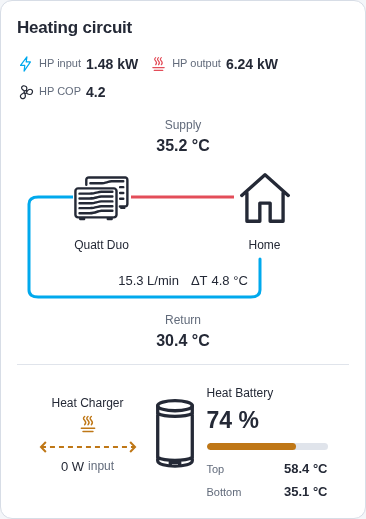
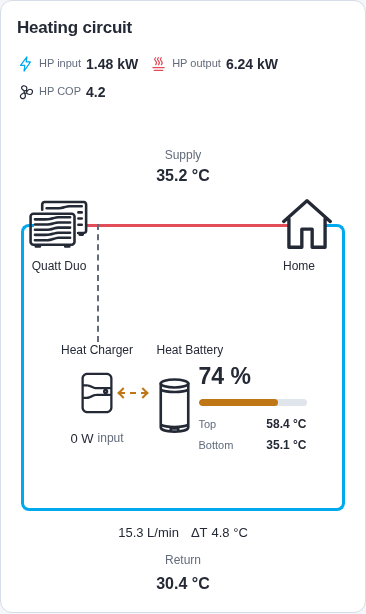
Integrate heat storage inside the heating circuit

diff --git a/src/cards/heating-circuit-card.ts b/src/cards/heating-circuit-card.ts
@@ -1,4 +1,4 @@
-import { css, html, nothing, svg } from 'lit';
+import { css, html, nothing } from 'lit';
 import { BaseCard } from '../base-card';
 import { circuitReadings } from '../data/circuit';
 import type { Reading } from '../types';
@@ -13,31 +13,45 @@ export class QuattHeatingCircuitCard extends BaseCard {
     .summary-item{display:flex;align-items:center;gap:7px;min-width:0}.summary-item .label{font-size:13px}
     .summary-item .value{font-size:17px}.summary-item>.icon{width:20px;height:22px}
     .summary-item.electric>.icon{color:var(--qc-return)}.summary-item.heat>.icon{color:var(--qc-supply)}
-    .diagram{display:flex;align-items:flex-start;gap:12px}.loop{flex:1;min-width:0;position:relative;padding:0 12px;height:235px}
-    .equipment{display:grid;grid-template-columns:repeat(var(--units),minmax(0,1fr));gap:26px;position:relative;padding-top:50px}
-    .unit{text-align:center;min-width:0;position:relative}.unit .icon{width:82px;height:62px;max-width:100%;stroke-width:1.05;background:var(--ha-card-background,var(--card-background-color,#fff))}
-    .unit.home .icon{width:62px;stroke-width:1.3}.unit-name{display:-webkit-box;-webkit-line-clamp:2;-webkit-box-orient:vertical;overflow:hidden;font-size:12px;line-height:1.35;overflow-wrap:anywhere;margin-top:3px}
-    .unit.offline .icon{color:var(--qc-secondary)}.unavailable{font-size:11px;color:var(--qc-secondary);display:block}
-    .pipes{position:absolute;inset:80px 12px auto;width:calc(100% - 24px);height:100px;overflow:visible;pointer-events:none}
-    .pipes path{fill:none;stroke-width:3;vector-effect:non-scaling-stroke;stroke-linecap:round;stroke-linejoin:round}
-    .supply-pipe{stroke:var(--qc-supply)}.return-pipe{stroke:var(--qc-return)}
-    .supply-reading{position:absolute;left:calc(100% - 100% / var(--units));transform:translateX(-50%);top:0;text-align:center;display:grid;justify-items:center}
-    .inline-readings{position:absolute;top:155px;left:0;width:100%;display:flex;justify-content:center;align-items:center;gap:12px;font-size:13px;white-space:nowrap}
+    .diagram{width:100%}.loop{position:relative;display:grid;grid-template-columns:90px minmax(0,1fr) 90px;grid-template-rows:50px auto 48px 51px;padding:0 12px;isolation:isolate}
+    .equipment{display:contents}.unit{grid-row:2;text-align:center;min-width:0;position:relative;padding-top:26px;align-self:stretch}.pump{grid-column:1}.home{grid-column:3}
+    .unit .icon{display:block;margin:auto;width:70px;height:62px;max-width:100%;stroke-width:1.05}
+    .unit.home .icon{width:62px;stroke-width:1.3}.unit-name{position:relative;display:table;margin:3px auto 0;background:var(--ha-card-background,var(--card-background-color,#fff));padding:0 4px;font-size:12px;line-height:1.35;overflow-wrap:anywhere;max-width:100%}
+    .home .unit-name{transform:translateX(-8px);background:transparent}
+    .unit.offline .icon{color:var(--qc-secondary)}.unavailable{position:relative;font-size:11px;color:var(--qc-secondary);display:block;background:var(--ha-card-background,var(--card-background-color,#fff))}
+    .pipes{position:absolute;pointer-events:none;z-index:-1}.supply-pipe{top:50px;left:57px;right:57px;height:28px;border:3px solid var(--qc-supply);border-bottom:0;border-radius:8px 8px 0 0}
+    .return-pipe{top:135px;bottom:85px;left:12px;right:12px;border:3px solid var(--qc-return);border-top:0;border-radius:0 0 8px 8px}
+    .home::after{content:'';position:absolute;top:57px;left:calc(50% + 18px);right:0;height:30px;border-right:3px solid var(--qc-return);border-top:3px solid var(--qc-return);border-radius:0 8px 0 0;z-index:-1}
+    .loop:not(.ordered) .home::after{display:none}.pump::before{content:'';position:absolute;top:57px;left:0;width:15px;height:30px;border-left:3px solid var(--qc-return);border-top:3px solid var(--qc-return);border-radius:8px 0 0 0;z-index:-1}.loop:not(.ordered) .pump::before{display:none}
+    .supply-reading{grid-row:1;grid-column:1/-1;height:50px;text-align:center;display:grid;justify-items:center;align-content:start}
+    .inline-readings{grid-row:3;grid-column:1/-1;display:flex;justify-content:center;align-items:center;gap:12px;font-size:13px;padding-top:24px;height:48px;white-space:nowrap}
     .inline-readings .value{font-size:13px;font-weight:500}.delta{display:flex;gap:4px}
-    .return-reading{position:absolute;top:195px;left:0;width:100%;display:grid;justify-items:center;text-align:center;min-height:39px}.return-reading .label,.supply-reading .label{font-size:12px}
-    .storage{display:flex;align-items:flex-start;gap:16px;flex:0 0 38%;padding-top:45px;min-width:270px}
-    .charger{display:flex;flex-direction:column;align-items:center;position:relative;flex:1 0 98px;min-width:0;text-align:center;padding-top:4px}
-    .charger-label{font-size:12px;white-space:nowrap}.thermal{width:100%;height:42px;position:relative;color:var(--qc-heat);display:grid;place-items:start center}
-    .thermal>.icon{width:20px;height:24px}.thermal-line{position:absolute;width:100%;height:14px;bottom:0;overflow:visible}
-    .thermal-line path{fill:none;stroke:currentColor;stroke-width:2;vector-effect:non-scaling-stroke}
+    .return-reading{grid-row:4;grid-column:1/-1;display:grid;justify-items:center;text-align:center;min-height:51px;padding-top:7px}.return-reading .label,.supply-reading .label{font-size:12px}
+    .storage{--thermal-gap:38px;grid-row:2;grid-column:2;display:flex;justify-content:center;align-items:flex-start;gap:38px;padding:26px 10px 24px;min-width:0;min-height:185px}
+    .charger{display:flex;flex-direction:column;align-items:center;position:relative;flex:0 0 85px;min-width:0;text-align:center}
+    .relationship{position:absolute;bottom:100%;height:26px;left:50%;border-left:2px dashed var(--qc-secondary)}
+    .charger-label{font-size:12px;white-space:nowrap}.thermal{width:100%;height:67px;position:relative;display:grid;place-items:center}
+    .thermal>.icon{width:46px;height:58px}.thermal-line{position:absolute;width:calc(50% + var(--thermal-gap) - 30px);height:16px;left:calc(50% + 21px);top:26px;color:var(--qc-heat)}
+    .thermal-shaft{position:absolute;top:7px;left:1px;right:1px;border-top:2px dashed currentColor}
+    .thermal-line::before,.thermal-line::after{content:'';position:absolute;top:4px;width:6px;height:6px;border-top:2px solid currentColor;border-right:2px solid currentColor}
+    .thermal-line::before{left:1px;transform:rotate(-135deg)}.thermal-line::after{right:1px;transform:rotate(45deg)}
     .charger-input{display:flex;justify-content:center;flex-wrap:wrap;gap:0 4px;margin-top:4px;font-size:12px}.charger-input .value{font-size:13px;font-weight:500}
-    .battery{display:flex;gap:10px;align-items:flex-start;min-width:0;flex:1 0 150px}.battery>.icon{width:48px;height:105px;stroke-width:1.05;flex:none}
-    .battery-data{min-width:0;flex:1}.battery-title{font-size:12px;white-space:nowrap;margin-bottom:4px}
+    .battery{display:flex;gap:10px;align-items:flex-start;min-width:0;flex:0 1 190px;padding-top:20px;position:relative}.battery>.icon{width:42px;height:88px;stroke-width:1.05;flex:none}
+    .battery-data{min-width:0;flex:1}.battery-title{position:absolute;top:0;left:0;font-size:12px;white-space:nowrap}
     .charge .value{font-size:23px;line-height:1.25}.bar{height:7px;background:var(--qc-line);border-radius:8px;margin:8px 0 10px;overflow:hidden}.bar>span{display:block;height:100%;background:var(--qc-heat);border-radius:inherit}
     .tank-reading{display:flex;align-items:baseline;justify-content:space-between;gap:8px;margin-top:4px}.tank-reading .value{font-size:13px;white-space:nowrap}.tank-reading .label{font-size:11px}
+    .loop:not(.has-storage) .unit{min-height:155px}
     .extra{display:flex;flex-wrap:wrap;gap:12px 24px;margin-top:14px}.extra:empty{display:none}
-    @container(max-width:720px){.diagram{flex-direction:column;gap:0}.loop{flex:none;width:100%}.storage{flex:initial;width:100%;min-width:0;justify-content:center;padding-top:20px;margin-top:12px;border-top:1px solid var(--qc-line);gap:20px}.charger{flex:0 0 110px;padding-top:10px}.battery{flex:0 1 175px}.battery>.icon{height:98px;width:44px}.summary{gap:8px 14px}.summary-item{gap:5px}.summary-item .label{font-size:12px}.summary-item .value{font-size:15px}}
-    @container(max-width:380px){.summary-item>.icon{width:17px}.summary{gap:6px 12px}.summary-item .label{font-size:11px}.summary-item .value{font-size:14px}.equipment{gap:18px}.unit .icon{width:58px;height:62px}.storage{gap:16px}.charger{flex-basis:98px}}
+    @container(max-width:620px){
+      .summary{gap:8px 14px}.summary-item{gap:5px}.summary-item .label{font-size:12px}.summary-item .value{font-size:15px}
+      .loop{grid-template-columns:76px minmax(0,1fr) 76px;grid-template-rows:50px auto auto 48px 51px;padding:0 4px}.supply-pipe{top:107px;left:70px;right:60px;height:0;border:0;border-top:3px solid var(--qc-supply);border-radius:0}.supply-reading{transform:translateY(30px)}
+      .inline-readings{grid-row:4}.return-reading{grid-row:5}
+      .storage{--thermal-gap:28px;grid-row:3;grid-column:1/-1;margin:0 8px;padding:35px 0 30px;gap:28px;min-height:190px}
+      .has-storage .unit{min-height:140px}.unit .icon{width:62px}.return-pipe{left:4px;right:4px;top:135px}
+      .pump::before{width:10px}
+      .relationship{height:118px;}.charger{flex-basis:80px}.battery{flex-basis:165px;gap:7px}.battery>.icon{width:35px}
+    }
+    @container(max-width:380px){.summary-item>.icon{width:17px}.summary{gap:6px 12px}.summary-item .label{font-size:11px}.summary-item .value{font-size:14px}.storage{--thermal-gap:22px;gap:22px;margin:0 6px}.charger{flex-basis:75px}.battery{flex-basis:150px}.tank-reading{gap:4px}.tank-reading .value{font-size:12px}}
   `];
   private summary(key:string,label:string,reading:Reading|undefined,symbol:string,tone='') {
     return this.showField(key)?html`<div class=${`summary-item ${tone}`}>${icon(symbol)}<span class="label">${label}</span>${this.value(reading,label,'value',key==='cop'?1:2)}</div>`:nothing;
@@ -49,17 +63,18 @@ export class QuattHeatingCircuitCard extends BaseCard {
     const snapshot=this.snapshot,{pumps,ordered,supply,returnTemperature,delta}=circuitReadings(snapshot,this.config);
     const battery=snapshot.heatBattery,charger=snapshot.heatCharger,m=battery?.metrics;
     const duo=pumps.length===2;
-    const count=duo?2:pumps.length+1,first=50/count,last=100-50/count;
+
     return html`<ha-card>${this.renderHeader('Heating circuit')}${this.renderNotice()}
       <div class="summary">${this.summary('electricPower','HP input',snapshot.system.electricPower,'electric','electric')}${this.summary('heatPower','HP output',snapshot.system.heatPower,'heat','heat')}${this.summary('cop','HP COP',snapshot.system.cop,'fan')}</div>
-      ${pumps.length?html`<div class="diagram"><section class="loop" style=${`--units:${count}`} aria-label="Heat pumps and home heating circuit">
-        ${ordered?svg`<svg class="pipes" viewBox="0 0 100 100" preserveAspectRatio="none" aria-hidden="true"><path class="supply-pipe" d=${`M${first} 0 H${last}`}/><path class="return-pipe" d=${`M${last} 62 V93 Q${last} 100 ${last-3} 100 H3 Q0 100 0 93 V7 Q0 0 3 0 H${first}`}/></svg>`:nothing}
+      ${pumps.length?html`<div class="diagram"><section class=${`loop ${battery||charger?'has-storage':''} ${ordered?'ordered':''}`} aria-label="Heat pumps and home heating circuit">
+        ${ordered?html`<div class="pipes supply-pipe" aria-hidden="true"></div><div class="pipes return-pipe" aria-hidden="true"></div>`:nothing}
         ${this.showField('supplyTemperature')?html`<div class="supply-reading"><span class="label">Supply</span>${this.value(supply,'Supply')}</div>`:nothing}
         <div class="equipment">${duo?html`<div class=${`unit pump duo ${pumps.every(p=>!p.available)?'offline':''}`}>${icon('pump-duo')}<span class="unit-name" title=${pumps.map(p=>p.name).join(' + ')}>Quatt Duo</span>${pumps.filter(p=>!p.available).map(p=>html`<span class="unavailable">${p.name} unavailable</span>`)}</div>`:pumps.map(p=>html`<div class=${`unit pump ${p.available?'':'offline'}`}>${icon('pump')}<span class="unit-name" title=${p.name}>${p.name}</span>${!p.available?html`<span class="unavailable">Unavailable</span>`:nothing}</div>`)}<div class="unit home">${icon('home')}<span class="unit-name">Home</span></div></div>
+      ${battery||charger?html`<section class="storage" aria-label="Heat storage">${charger?html`<div class="charger">${ordered?html`<span class="relationship" aria-hidden="true" title="System relationship, not a water pipe"></span>`:nothing}<span class="charger-label">Heat Charger</span><div class="thermal" title="Thermal connection; arrows do not indicate live flow">${icon('heat-charger')}${battery?html`<span class="thermal-line" aria-hidden="true"><span class="thermal-shaft"></span></span>`:nothing}</div>${this.showField('heatCharger.heaterPower')&&charger.metrics.heaterPower?html`<div class="charger-input">${this.value(charger.metrics.heaterPower,'Heat Charger electric input')}<span class="label">input</span></div>`:nothing}</div>`:nothing}
+        ${battery?html`<div class="battery">${icon('tank')}<div class="battery-data"><div class="battery-title">Heat Battery</div>${this.showField('heatBattery.charge')?html`<div class="charge">${this.value(m?.charge,'Heat battery charge')}</div>${m?.charge?.value!=null?html`<div class="bar" role="meter" aria-label="Heat battery charge" aria-valuemin="0" aria-valuemax="100" aria-valuenow=${m.charge.value}><span style=${`width:${m.charge.value}%`}></span></div>`:nothing}`:nothing}${this.tankReading('topTemperature','Top',m?.topTemperature)}${this.tankReading('middleTemperature','Middle',m?.middleTemperature)}${this.tankReading('bottomTemperature','Bottom',m?.bottomTemperature)}${this.tankReading('showerMinutes','Shower',m?.showerMinutes)}</div></div>`:nothing}</section>`:nothing}
         <div class="inline-readings">${this.showField('flowRate')?this.value(snapshot.system.flowRate,'Water flow'):nothing}${this.showField('deltaTemperature')?html`<span class="delta" title="Calculated: final heat pump outlet minus first heat pump inlet">ΔT ${this.value(delta,'Temperature difference')}</span>`:nothing}</div>
         <div class="return-reading">${this.showField('returnTemperature')?html`<span class="label">Return</span>${this.value(returnTemperature,'Return')}`:nothing}</div>
-      </section>${battery||charger?html`<section class="storage" aria-label="Heat storage">${charger?html`<div class="charger"><span class="charger-label">Heat Charger</span><div class="thermal" title="Thermal connection; arrows do not indicate live flow">${icon('heat')}${battery?svg`<svg class="thermal-line" viewBox="0 0 100 14" preserveAspectRatio="none" aria-hidden="true"><path d="M2 7H98" stroke-dasharray="5 4"/><path d="m7 2-5 5 5 5m86-10 5 5-5 5"/></svg>`:nothing}</div>${this.showField('heatCharger.heaterPower')&&charger.metrics.heaterPower?html`<div class="charger-input">${this.value(charger.metrics.heaterPower,'Heat Charger electric input')}<span class="label">input</span></div>`:nothing}</div>`:nothing}
-        ${battery?html`<div class="battery">${icon('tank')}<div class="battery-data"><div class="battery-title">Heat Battery</div>${this.showField('heatBattery.charge')?html`<div class="charge">${this.value(m?.charge,'Heat battery charge')}</div>${m?.charge?.value!=null?html`<div class="bar" role="meter" aria-label="Heat battery charge" aria-valuemin="0" aria-valuemax="100" aria-valuenow=${m.charge.value}><span style=${`width:${m.charge.value}%`}></span></div>`:nothing}`:nothing}${this.tankReading('topTemperature','Top',m?.topTemperature)}${this.tankReading('middleTemperature','Middle',m?.middleTemperature)}${this.tankReading('bottomTemperature','Bottom',m?.bottomTemperature)}${this.tankReading('showerMinutes','Shower',m?.showerMinutes)}</div></div>`:nothing}</section>`:nothing}</div>${!ordered?html`<p class="caption">Pump order unavailable. Circuit connections and endpoint temperatures cannot be determined.</p>`:nothing}`:html`<p class="empty">No heat pump readings found. Select a Quatt installation.</p>`}
+      </section></div>${!ordered?html`<p class="caption">Pump order unavailable. Circuit connections and endpoint temperatures cannot be determined.</p>`:nothing}`:html`<p class="empty">No heat pump readings found. Select a Quatt installation.</p>`}
       <div class="extra">${charger&&this.showField('heatCharger.waterPressure')?this.metric('Heating pressure',charger.metrics.waterPressure,true):nothing}</div>
     </ha-card>`;
   }

diff --git a/tests/browser/circuit.spec.ts b/tests/browser/circuit.spec.ts
@@ -30,7 +30,28 @@ for(const width of [1200,820,390])for(const theme of ['light','dark'] as const)t
     await page.evaluate(s=>window.demo.setScenario(s),scenario);
     await expect(card.locator('.pump')).toHaveCount(1);
     const clipped=await card.locator('.diagram,.loop,.storage,.battery,.summary,.value,.unit-name').evaluateAll(es=>es.filter(e=>e.scrollWidth>e.clientWidth+1).map(e=>e.className));expect(clipped).toEqual([]);
-    if(width===390){const loop=(await card.locator('.loop').boundingBox())!,storage=(await card.locator('.storage').boundingBox())!,reading=(await card.locator('.return-reading').boundingBox())!;expect(storage.y).toBeGreaterThanOrEqual(loop.y+loop.height);expect(reading.y+reading.height).toBeLessThanOrEqual(storage.y);}
+    const loop=(await card.locator('.loop').boundingBox())!,storage=(await card.locator('.storage').boundingBox())!,reading=(await card.locator('.inline-readings').boundingBox())!;
+    expect(storage.y).toBeGreaterThan(loop.y);expect(storage.y+storage.height).toBeLessThanOrEqual(reading.y);
+    await expect(card.locator('.icon-heat-charger')).toHaveCount(1);
+    const chargerIcon=(await card.locator('.icon-heat-charger').boundingBox())!,relationship=(await card.locator('.relationship').boundingBox())!;
+    expect(Math.abs(relationship.x-(chargerIcon.x+chargerIcon.width/2))).toBeLessThanOrEqual(1);
+    // Mobile return connections enter both equipment icons from their outer sides at the same height.
+    {
+      const attachment=async(selector:string,pseudo:string)=>card.locator(selector).evaluate((e,pseudo)=>{
+        const c=getComputedStyle(e,pseudo),r=e.getBoundingClientRect();
+        return {y:r.y+parseFloat(c.top),height:parseFloat(c.height),border:parseFloat(c.borderTopWidth)};
+      },pseudo);
+      const house=await attachment('.home','::after'),pump=await attachment('.pump','::before');
+      expect(house).toEqual(pump);expect(house.border).toBe(3);
+      const home=(await card.locator('.home .icon').boundingBox())!;
+      expect(Math.abs(house.y-(home.y+home.height/2))).toBeLessThan(2);
+      if(width===390){
+      const supply=(await card.locator('.supply-pipe').boundingBox())!
+      expect(Math.abs(supply.y-house.y)).toBeLessThan(2);
+      expect(Math.abs(supply.x+supply.width-(home.x+home.width*5/24))).toBeLessThan(2);
+      }
+    }
+
     await card.screenshot({path:`.impeccable/review/circuit-${scenario}-${width}-${theme}.png`});
   }
 });

diff --git a/src/ui.ts b/src/ui.ts
@@ -66,6 +66,7 @@ export function icon(name: string) {
     tick: svg`<path d="m5 12 4 4L19 6"/>`,
     question: svg`<path d="M8 8a4 4 0 1 1 7 2.7c-2 1.3-3 1.8-3 4M12 19v.1"/>`,
     controls: svg`<path d="M4 7h4m4 0h8M4 17h8m4 0h4"/><circle cx="10" cy="7" r="2"/><circle cx="14" cy="17" r="2"/>`,
+    'heat-charger': svg`<path fill="currentColor" stroke="none" d=${equipmentPaths['heat-charger-outline']}/>`,
     'pump-duo': svg`<path fill="currentColor" stroke="none" d=${equipmentPaths['quatt-duo-outline']}/>`,
     pump: svg`<rect x="1.5" y="4.5" width="21" height="15" rx="1.4"/><path d="M3.5 7h5c4 0 4-1 8-1h4M3.5 9h5c4 0 4-1 8-1h4M3.5 11h5c4 0 4-1 8-1h4M3.5 13h5c4 0 4-1 8-1h4M3.5 15h5c4 0 4-1 8-1h4M2 18h6c4 0 4-2 8-2h6M4 20h2m12 0h2"/>`,
     chill: svg`<ellipse cx="12" cy="3.5" rx="5.5" ry="1.8"/><path d="M6.5 3.5v16.7c0 2.4 11 2.4 11 0V3.5M6.5 11.5c2 1.4 9 1.4 11 0M9 6v4m3-3.5V11m3-5v4"/>`,

diff --git a/README.md b/README.md
@@ -304,7 +304,7 @@ fields:
   heatCharger.waterPressure: false
 ```
 
-The layout adapts automatically to one or two discovered heat pumps. Two pumps share a compact stacked Quatt Duo outline; a single pump keeps its individual icon. Unavailable Duo members are named below the icon. It preserves known offline units and uses upstream pump identifiers to order Duo pumps in series. A compact Heat Charger connector appears once, with optional electrical input underneath. The storage section moves below the loop on narrow cards. There are no domestic hot/cold-water pipes or equipment controls.
+The layout adapts automatically to one or two discovered heat pumps. Two pumps share a compact stacked Quatt Duo outline; a single pump keeps its individual icon. Unavailable Duo members are named below the icon. It preserves known offline units and uses upstream pump identifiers to order Duo pumps in series. The Heat Charger and Heat Battery sit inside the heating loop. On narrow cards they move beneath the Duo/Home row while remaining inside the blue return. The charger uses its equipment outline, with a dashed system relationship and an amber thermal connection to the battery. There are no domestic hot/cold-water pipes or equipment controls.
 
 The top summary is **heat-pump** input, output and reported COP, excluding the Heat Charger. Supply is the final pump outlet; return is the first pump inlet. ΔT is calculated from those normalized temperature readings; missing endpoints leave it unavailable. This is a schematic, not an installation drawing. The dashed amber connector expresses a thermal relationship, not a water pipe or measured live direction. No transfer heat is inferred from charger input. See [plumbing and telemetry research](docs/heating-circuit-research.md).
 

diff --git a/CHANGELOG.md b/CHANGELOG.md
@@ -1,5 +1,10 @@
 # Changelog
 
+## 0.10.0
+
+- Integrate Heat Charger and Heat Battery inside the heating loop, with a responsive mobile layout and the Heat Charger equipment icon.
+- Align blue return connections with equipment sides, lower the mobile supply connection, center the charger relationship, and draw clear thermal arrowheads.
+
 ## 0.9.0
 
 - Add compact stacked `quatt:quatt-duo-outline` and `quatt:quatt-duo-solid` icons, available in both bundles and the Home Assistant icon picker.
